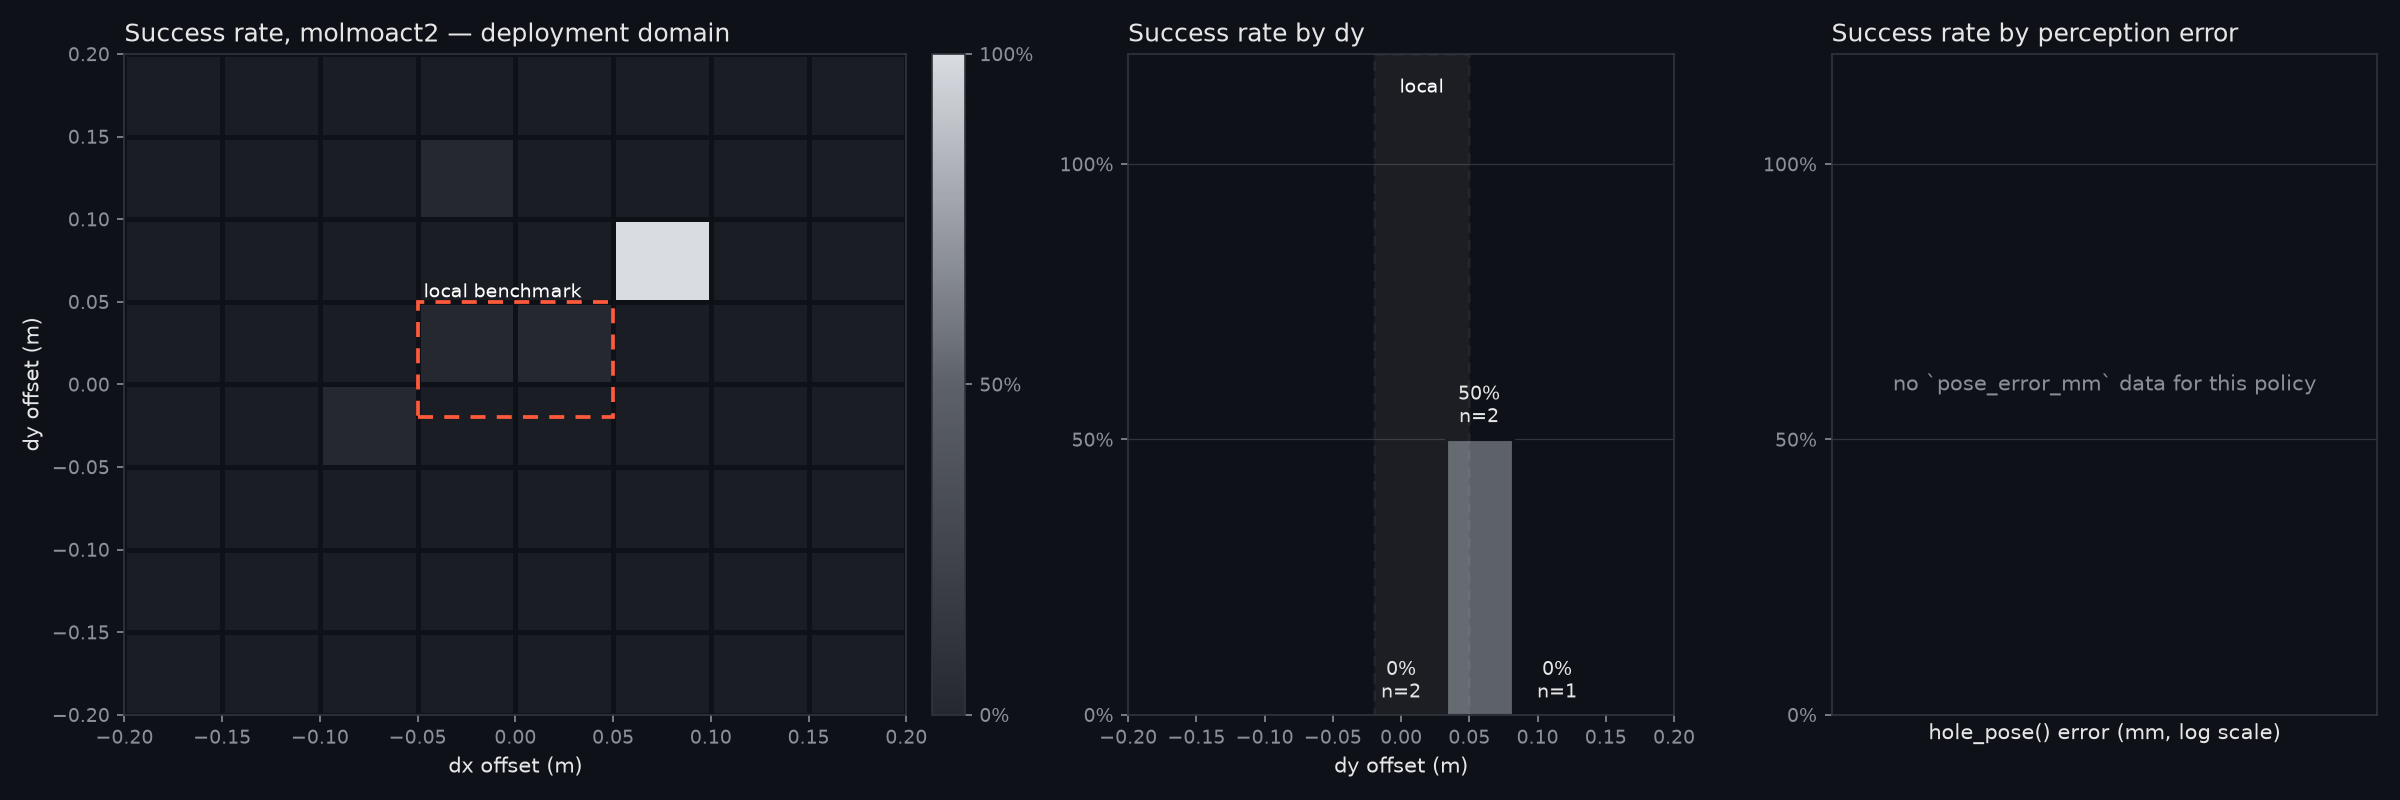
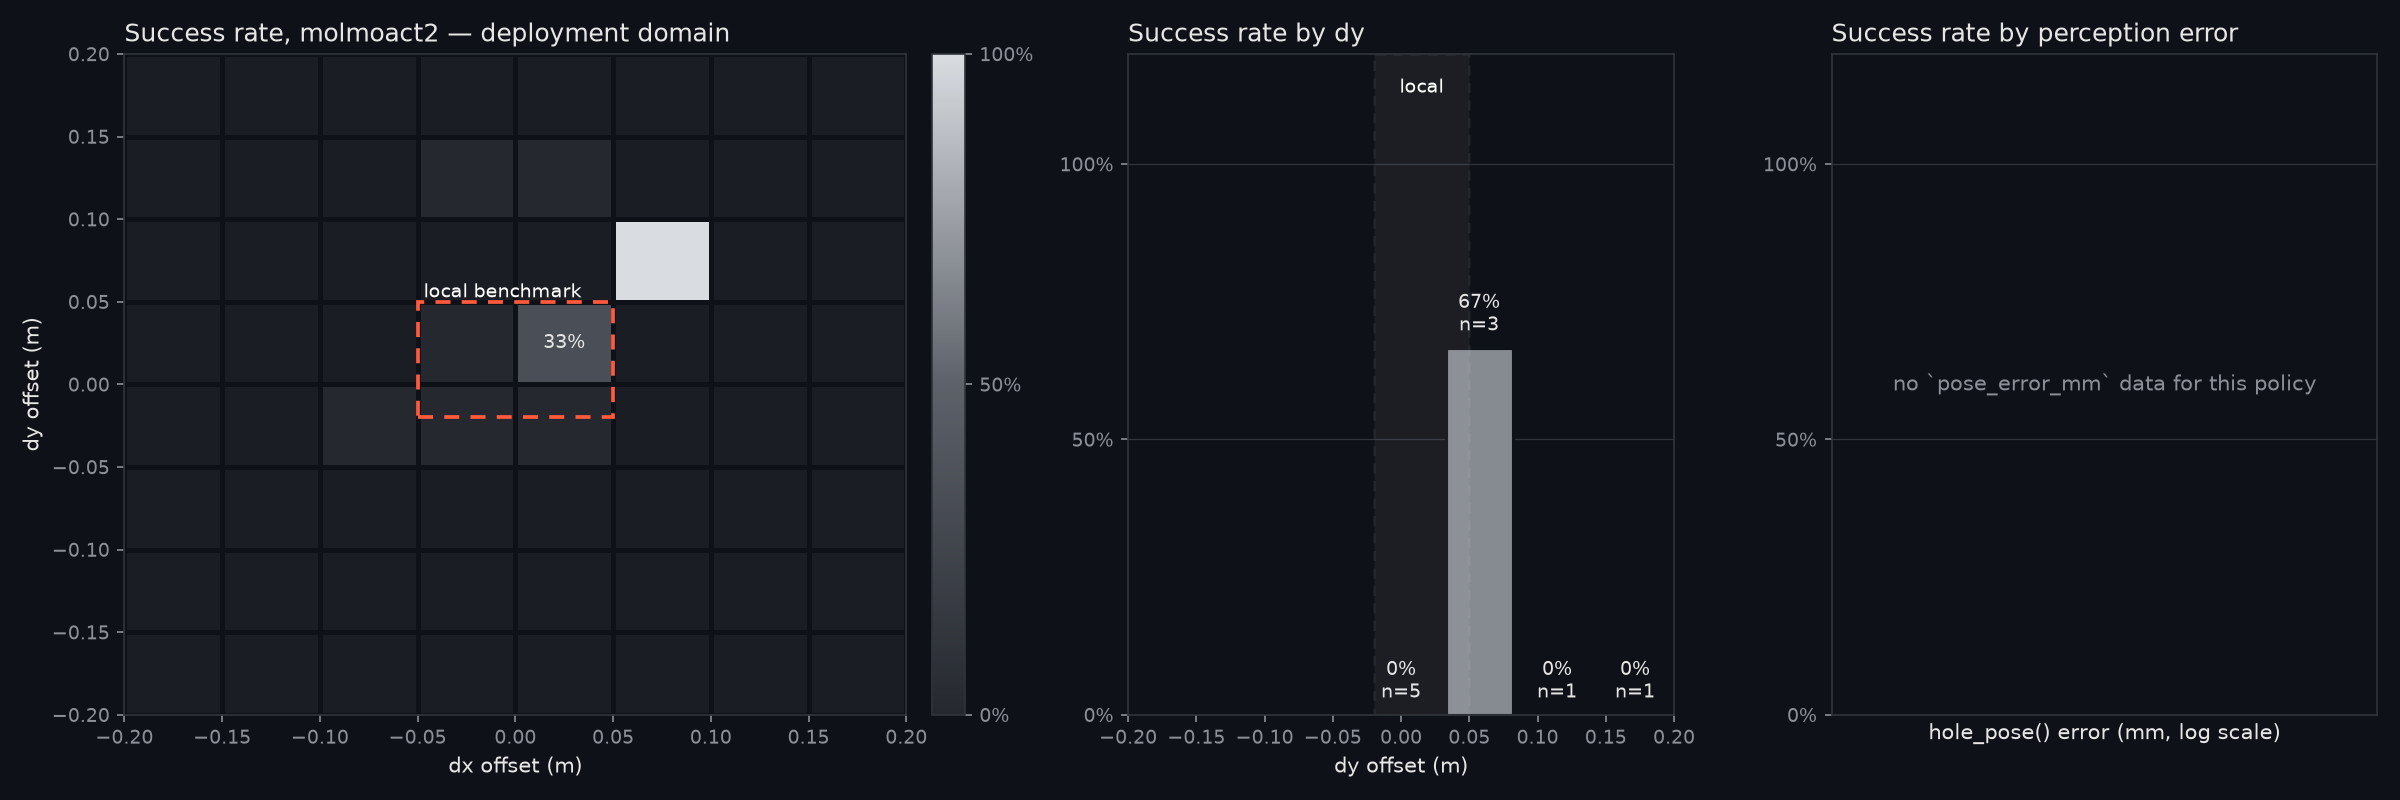
README, landing page and flow re-rendered on 331fc18 committed data (opus-live smoke 0/1, molmoact2 1/5 + 1/5)

Changed region(s): [[0.5938, 0.4375, 0.6875, 0.9062], [0.2188, 0.375, 0.2812, 0.5], [0.5938, 0.375, 0.625, 0.4062]]

diff --git a/docs/index.html b/docs/index.html
@@ -80,7 +80,7 @@ footer li { margin-bottom: 10px; }
 </section>
 
 <section>
-  <div class="seg" role="tablist"><button data-i="0" role="tab">astra-script</button><button data-i="1" role="tab">astra-live</button><button data-i="2" role="tab">opus-script</button><button data-i="3" role="tab">molmoact2</button></div>
+  <div class="seg" role="tablist"><button data-i="0" role="tab">astra-script</button><button data-i="1" role="tab">astra-live</button><button data-i="2" role="tab">opus-script</button><button data-i="3" role="tab">opus-live</button><button data-i="4" role="tab">molmoact2</button></div>
   <p class="eyebrow" id="v-eyebrow"></p>
   <div class="nums">
     <div class="num hero"><div class="v" id="v-out"></div><div class="l">success outside the local box</div><div class="n" id="v-nout"></div></div>
@@ -93,7 +93,7 @@ footer li { margin-bottom: 10px; }
   </figure>
 </section>
 <script>
-const VIEWS = [{"id": "astra-script", "status": "full", "img": "assets/heatmap_astra-script.png", "eyebrow": "astra-script \u00b7 full \u00b7 30 local \u00b7 600 deployment trials", "out": "13%", "nout": "n = 586", "loc": "90%", "nloc": "n = 30", "dep": "16%", "ndep": "n = 600", "note": "hole_pose() error is a modelled r\u00b3 distortion mirroring the AIC calibration radius, not a measured camera effect.", "text": "The local benchmark covers 2.1% of the deployment domain by volume (dx \u00d7 dy \u00d7 yaw; yaw folded to \u00b145\u00b0 by the peg symmetry). The policy succeeds on 90% of local trials (n=30) and 16% of deployment trials (n=600); outside the local box it succeeds on 13% (n=586). Failures concentrate in: dx \u2208 [+0.13, +0.20] m (0%, n=101); dy \u2208 [-0.20, -0.13] m (0%, n=100); dy \u2208 [+0.13, +0.20] m (0%, n=100); dx \u2208 [-0.20, -0.13] m (1%, n=101). A benchmark that stopped at the local box would have reported 90% and shipped."}, {"id": "astra-live", "status": "smoke", "img": "assets/heatmap_astra-live.png", "eyebrow": "astra-live \u00b7 smoke \u00b7 8 local \u00b7 0 deployment trials", "out": "not run", "nout": "n = 0", "loc": "0%", "nloc": "n = 8", "dep": "not run", "ndep": "n = 0", "note": "", "text": "Smoke run: 0 of 8 local trials succeeded; no deployment trials yet."}, {"id": "opus-script", "status": "full", "img": "assets/heatmap_opus-script.png", "eyebrow": "opus-script \u00b7 full \u00b7 30 local \u00b7 600 deployment trials", "out": "21%", "nout": "n = 588", "loc": "100%", "nloc": "n = 30", "dep": "22%", "ndep": "n = 600", "note": "hole_pose() error is a modelled r\u00b3 distortion mirroring the AIC calibration radius, not a measured camera effect.", "text": "The local benchmark covers 2.1% of the deployment domain by volume (dx \u00d7 dy \u00d7 yaw; yaw folded to \u00b145\u00b0 by the peg symmetry). The policy succeeds on 100% of local trials (n=30) and 22% of deployment trials (n=600); outside the local box it succeeds on 21% (n=588). Failures concentrate in: dx \u2208 [-0.20, -0.13] m (0%, n=100); dx \u2208 [+0.13, +0.20] m (0%, n=100); dy \u2208 [+0.13, +0.20] m (0%, n=100); dy \u2208 [-0.20, -0.13] m (0%, n=98). A benchmark that stopped at the local box would have reported 100% and shipped."}, {"id": "molmoact2", "status": "smoke", "img": "assets/heatmap_molmoact2.png", "eyebrow": "molmoact2 \u00b7 smoke \u00b7 2 local \u00b7 3 deployment trials", "out": "33%", "nout": "n = 3", "loc": "0%", "nloc": "n = 2", "dep": "33%", "ndep": "n = 3", "note": "", "text": "The local benchmark covers 1.5% of the deployment domain by volume (dx \u00d7 dy \u00d7 yaw; yaw folded to \u00b145\u00b0 by the peg symmetry). The policy succeeds on 0% of local trials (n=2) and 33% of deployment trials (n=3); outside the local box it succeeds on 33% (n=3). Failures concentrate in: no single-parameter band with n \u2265 5 falls below 50%. A benchmark that stopped at the local box would have reported 0% and shipped."}];
+const VIEWS = [{"id": "astra-script", "status": "full", "img": "assets/heatmap_astra-script.png", "eyebrow": "astra-script \u00b7 full \u00b7 30 local \u00b7 600 deployment trials", "out": "13%", "nout": "n = 586", "loc": "90%", "nloc": "n = 30", "dep": "16%", "ndep": "n = 600", "note": "hole_pose() error is a modelled r\u00b3 distortion mirroring the AIC calibration radius, not a measured camera effect.", "text": "The local benchmark covers 2.1% of the deployment domain by volume (dx \u00d7 dy \u00d7 yaw; yaw folded to \u00b145\u00b0 by the peg symmetry). The policy succeeds on 90% of local trials (n=30) and 16% of deployment trials (n=600); outside the local box it succeeds on 13% (n=586). Failures concentrate in: dx \u2208 [+0.13, +0.20] m (0%, n=101); dy \u2208 [-0.20, -0.13] m (0%, n=100); dy \u2208 [+0.13, +0.20] m (0%, n=100); dx \u2208 [-0.20, -0.13] m (1%, n=101). A benchmark that stopped at the local box would have reported 90% and shipped."}, {"id": "astra-live", "status": "smoke", "img": "assets/heatmap_astra-live.png", "eyebrow": "astra-live \u00b7 smoke \u00b7 8 local \u00b7 0 deployment trials", "out": "not run", "nout": "n = 0", "loc": "0%", "nloc": "n = 8", "dep": "not run", "ndep": "n = 0", "note": "", "text": "Smoke run: 0 of 8 local trials succeeded; no deployment trials yet."}, {"id": "opus-script", "status": "full", "img": "assets/heatmap_opus-script.png", "eyebrow": "opus-script \u00b7 full \u00b7 30 local \u00b7 600 deployment trials", "out": "21%", "nout": "n = 588", "loc": "100%", "nloc": "n = 30", "dep": "22%", "ndep": "n = 600", "note": "hole_pose() error is a modelled r\u00b3 distortion mirroring the AIC calibration radius, not a measured camera effect.", "text": "The local benchmark covers 2.1% of the deployment domain by volume (dx \u00d7 dy \u00d7 yaw; yaw folded to \u00b145\u00b0 by the peg symmetry). The policy succeeds on 100% of local trials (n=30) and 22% of deployment trials (n=600); outside the local box it succeeds on 21% (n=588). Failures concentrate in: dx \u2208 [-0.20, -0.13] m (0%, n=100); dx \u2208 [+0.13, +0.20] m (0%, n=100); dy \u2208 [+0.13, +0.20] m (0%, n=100); dy \u2208 [-0.20, -0.13] m (0%, n=98). A benchmark that stopped at the local box would have reported 100% and shipped."}, {"id": "opus-live", "status": "smoke", "img": "assets/heatmap_opus-live.png", "eyebrow": "opus-live \u00b7 smoke \u00b7 1 local \u00b7 0 deployment trials", "out": "not run", "nout": "n = 0", "loc": "0%", "nloc": "n = 1", "dep": "not run", "ndep": "n = 0", "note": "", "text": "Smoke run: 0 of 1 local trials succeeded; no deployment trials yet."}, {"id": "molmoact2", "status": "smoke", "img": "assets/heatmap_molmoact2.png", "eyebrow": "molmoact2 \u00b7 smoke \u00b7 5 local \u00b7 5 deployment trials", "out": "20%", "nout": "n = 5", "loc": "20%", "nloc": "n = 5", "dep": "20%", "ndep": "n = 5", "note": "", "text": "The local benchmark covers 1.5% of the deployment domain by volume (dx \u00d7 dy \u00d7 yaw; yaw folded to \u00b145\u00b0 by the peg symmetry). The policy succeeds on 20% of local trials (n=5) and 20% of deployment trials (n=5); outside the local box it succeeds on 20% (n=5). Failures concentrate in: no single-parameter band with n \u2265 5 falls below 50%. A benchmark that stopped at the local box would have reported 20% and shipped."}];
 function show(k) {
   const v = VIEWS[k];
   document.querySelectorAll(".seg button").forEach((b, i) => b.setAttribute("aria-selected", i === k));
@@ -109,7 +109,7 @@ show(0);
 
 <section>
   <h2>Policies compared</h2>
-  <div class="tbl"><table><tr><th>policy</th><th>family</th><th>task</th><th>n local</th><th>local success</th><th>n deploy</th><th>deploy success</th><th>outside-box success</th><th>status</th></tr><tr><td>astra-script</td><td>LLM-written policy code</td><td>peg-in-hole, UR5e</td><td class=num>30</td><td class=num>90%</td><td class=num>600</td><td class=num>16%</td><td class=num>13%</td><td>full</td></tr><tr><td>astra-live</td><td>LLM closed-loop control</td><td>Ditto sphere-in-basket, Franka</td><td class=num>8</td><td class=num>0/8 (0%)</td><td class=num>not run</td><td class=num>not run</td><td class=num>not run</td><td>smoke</td></tr><tr><td>opus-script</td><td>LLM-written policy code</td><td>peg-in-hole, UR5e</td><td class=num>30</td><td class=num>100%</td><td class=num>600</td><td class=num>22%</td><td class=num>21%</td><td>full</td></tr><tr class="planned"><td>opus-live</td><td>LLM closed-loop control</td><td>Ditto sphere-in-basket, Franka</td><td class=num>planned</td><td class=num>planned</td><td class=num>planned</td><td class=num>planned</td><td class=num>planned</td><td>planned</td></tr><tr><td>molmoact2</td><td>VLA</td><td>Ditto sphere-in-basket, Franka</td><td class=num>2</td><td class=num>0/2 (0%)</td><td class=num>3</td><td class=num>1/3 (33%)</td><td class=num>1/3 (33%)</td><td>smoke</td></tr></table></div>
+  <div class="tbl"><table><tr><th>policy</th><th>family</th><th>task</th><th>n local</th><th>local success</th><th>n deploy</th><th>deploy success</th><th>outside-box success</th><th>status</th></tr><tr><td>astra-script</td><td>LLM-written policy code</td><td>peg-in-hole, UR5e</td><td class=num>30</td><td class=num>90%</td><td class=num>600</td><td class=num>16%</td><td class=num>13%</td><td>full</td></tr><tr><td>astra-live</td><td>LLM closed-loop control</td><td>Ditto sphere-in-basket, Franka</td><td class=num>8</td><td class=num>0/8 (0%)</td><td class=num>not run</td><td class=num>not run</td><td class=num>not run</td><td>smoke</td></tr><tr><td>opus-script</td><td>LLM-written policy code</td><td>peg-in-hole, UR5e</td><td class=num>30</td><td class=num>100%</td><td class=num>600</td><td class=num>22%</td><td class=num>21%</td><td>full</td></tr><tr><td>opus-live</td><td>LLM closed-loop control</td><td>Ditto sphere-in-basket, Franka</td><td class=num>1</td><td class=num>0/1 (0%)</td><td class=num>not run</td><td class=num>not run</td><td class=num>not run</td><td>smoke</td></tr><tr><td>molmoact2</td><td>VLA</td><td>Ditto sphere-in-basket, Franka</td><td class=num>5</td><td class=num>1/5 (20%)</td><td class=num>5</td><td class=num>1/5 (20%)</td><td class=num>1/5 (20%)</td><td>smoke</td></tr></table></div>
 </section>
 
 <section>

diff --git a/README.md b/README.md
@@ -44,11 +44,11 @@ Yaw is folded to ±45° (square-peg symmetry; 1.0% unfolded).
 | astra-script | LLM-written policy code | peg-in-hole, UR5e | 30 | 90% | 600 | 16% | 13% | full |
 | astra-live | LLM closed-loop control | Ditto Bench task 1 (DittoOddGeometry-v1) easy: pick up the 48 mm sphere and put it in the basket, Franka FR3 + Robotiq 2F-85 | 8 | 0/8 (0%) | not run | not run | not run | smoke |
 | opus-script | LLM-written policy code | peg-in-hole, UR5e | 30 | 100% | 600 | 22% | 21% | full |
-| opus-live | LLM closed-loop control | Ditto Bench task 1 (DittoOddGeometry-v1) easy: pick up the 48 mm sphere and put it in the basket, Franka FR3 + Robotiq 2F-85 | planned | planned | planned | planned | planned | planned |
-| molmoact2 | VLA | Ditto Bench task 1 (DittoOddGeometry-v1) easy: pick up the 48 mm sphere and put it in the basket, Franka FR3 + Robotiq 2F-85 | 2 | 0/2 (0%) | 3 | 1/3 (33%) | 1/3 (33%) | smoke |
+| opus-live | LLM closed-loop control | Ditto Bench task 1 (DittoOddGeometry-v1) easy: pick up the 48 mm sphere and put it in the basket, Franka FR3 + Robotiq 2F-85 | 1 | 0/1 (0%) | not run | not run | not run | smoke |
+| molmoact2 | VLA | Ditto Bench task 1 (DittoOddGeometry-v1) easy: pick up the 48 mm sphere and put it in the basket, Franka FR3 + Robotiq 2F-85 | 5 | 1/5 (20%) | 5 | 1/5 (20%) | 1/5 (20%) | smoke |
 
 Any `run_trial(params) -> TrialResult` plugs in; every policy gets the same map and report.
-Today two rows are full, two are smoke runs, and the rest are planned.
+Today two rows are full, three are smoke runs, and none are planned.
 
 ## Add your own policy
 
